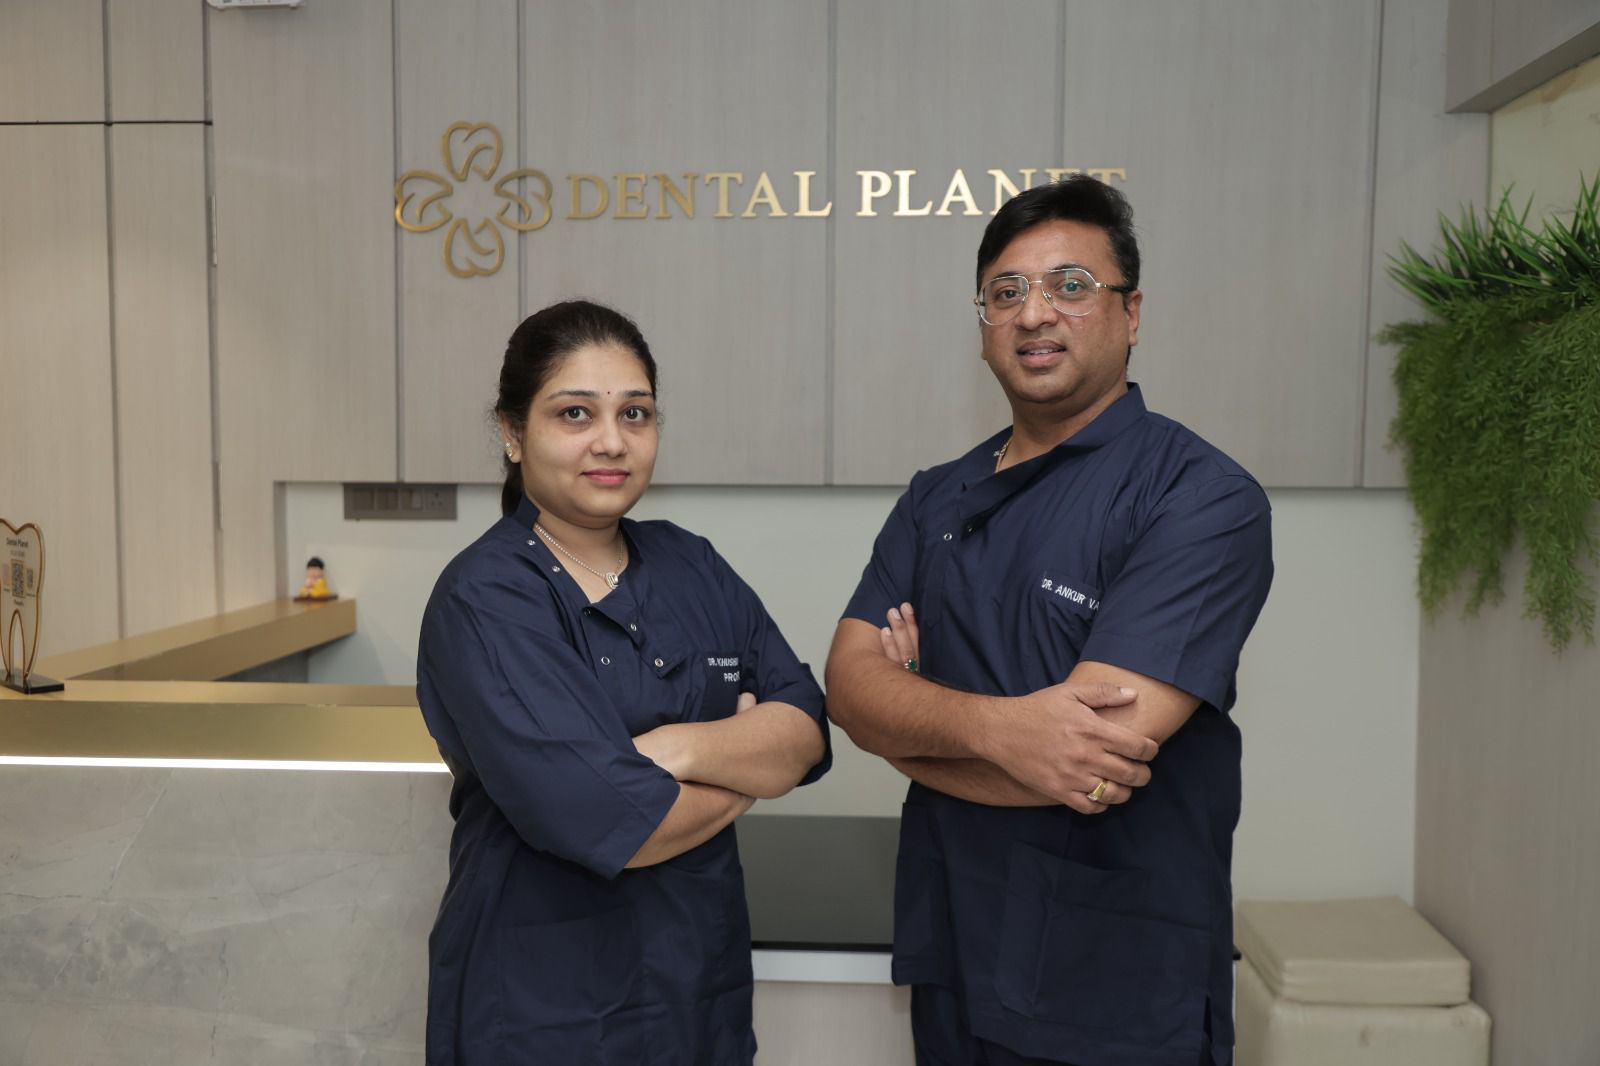
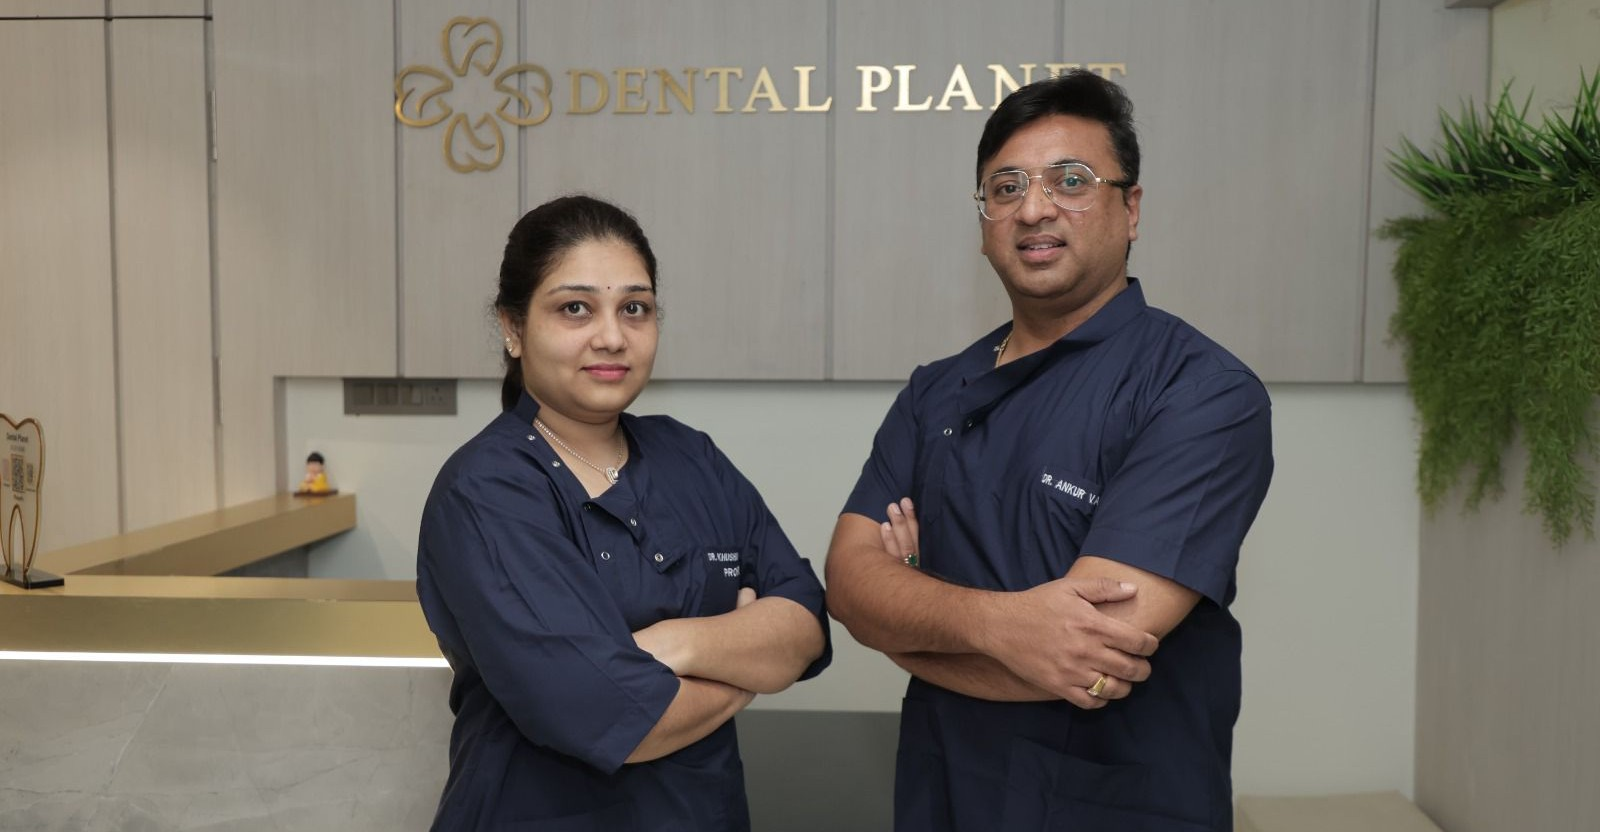
added dr khushboo's information page

diff --git a/app/doctors/dr-khushboo/page.tsx b/app/doctors/dr-khushboo/page.tsx
@@ -1,0 +1,120 @@
+import Image from "next/image";
+import Link from "next/link";
+
+export default function DrKhushbooPage() {
+  return (
+    <div className="container py-5" style={{ maxWidth: 1100 }}>
+      {/* BACK */}
+      <div className="mb-4">
+        <Link
+          href="/"
+          className="btn btn-outline-info rounded-pill px-4 py-2 fw-semibold"
+        >
+          ← Back to Home
+        </Link>
+      </div>
+
+      {/* ================= HERO ================= */}
+      <div className="row g-5 align-items-center mb-5">
+        {/* IMAGE */}
+        <div className="col-12 col-lg-4 text-center">
+          <div className="bg-white rounded-4 shadow p-3">
+            <div className="position-relative" style={{ height: 420 }}>
+              <Image
+                src="/images/khusboo.jpeg"
+                alt="Dr. Khushboo Barjatya Vatsal"
+                fill
+                className="rounded-3"
+                style={{ objectFit: "contain" }}
+              />
+            </div>
+          </div>
+        </div>
+
+        {/* CONTENT */}
+        <div className="col-12 col-lg-8">
+          <h1 className="fw-bold mb-1">Dr. Khushboo Barjatya Vatsal</h1>
+
+          <p className="text-primary fw-semibold fs-5 mb-3">
+            Founder & Pediatric / Child Dental Specialist
+          </p>
+
+          <p className="text-muted lh-lg">
+            Dr. Khushboo Barjatya Vatsal is a compassionate pediatric dentist
+            dedicated to the oral health of infants, children, adolescents, and
+            children with special healthcare needs. She believes in early
+            intervention, preventive care, and gentle behavior management.
+          </p>
+
+          <p className="text-muted lh-lg">
+            Known for her calm approach and child-friendly environment, she
+            focuses on building trust with young patients while educating
+            parents on long-term oral health.
+          </p>
+
+          {/* CTA ROW */}
+          <div className="d-flex flex-column flex-sm-row gap-3 mt-4">
+            <span className="badge bg-warning text-dark rounded-pill px-4 py-2 fs-6 shadow-sm">
+              Pediatric / Child Dental Specialist
+            </span>
+          </div>
+        </div>
+      </div>
+
+      {/* ================= SERVICES ================= */}
+      <section className="bg-light rounded-4 p-4 p-md-5 mb-5">
+        <h3 className="fw-bold text-center mb-4">Pediatric Dental Services</h3>
+
+        <div className="row g-4">
+          {[
+            "Regular Check-Ups & Cleaning",
+            "Infant & Expecting Mother Dental Care",
+            "Cavity Prevention (Fluoride & Sealants)",
+            "Pulp Therapy & Tooth-Colored Crowns",
+            "Early Braces & Orthodontic Care",
+            "Habit Correction Therapy",
+            "Emergency Pediatric Dental Care",
+            "Care for Children with Special Needs",
+            "Sedation Dentistry",
+            "Nitrous Oxide & General Anesthesia",
+          ].map((item, index) => (
+            <div key={index} className="col-md-6">
+              <div className="bg-white rounded-3 shadow-sm p-3 h-100">
+                ✔ {item}
+              </div>
+            </div>
+          ))}
+        </div>
+      </section>
+
+      {/* ================= CLINIC INFO ================= */}
+      <section>
+        <div className="row g-4">
+          <div className="col-md-6">
+            <div className="bg-white shadow rounded-4 p-4 h-100">
+              <h5 className="fw-semibold mb-3">Clinic Timings</h5>
+              <ul className="lh-lg mb-0">
+                <li>Weekdays: 10:00 AM – 2:00 PM</li>
+                <li>Evening: 5:00 PM – 8:30 PM</li>
+                <li>Sunday: Appointment Only (10:00 AM – 12:00 PM)</li>
+              </ul>
+            </div>
+          </div>
+
+          <div className="col-md-6">
+            <div className="bg-white shadow rounded-4 p-4 h-100">
+              <h5 className="fw-semibold mb-3">Clinic Address</h5>
+              <p className="mb-1">
+                17 A Baktawar Ram Nagar,
+                <br />
+                Tilak Nagar, Indore
+              </p>
+              <p className="mb-1">📞 9893523334, 7400630334</p>
+              <p className="mb-0">✉ dentalplanet@gmail.com</p>
+            </div>
+          </div>
+        </div>
+      </section>
+    </div>
+  );
+}

diff --git a/components/DoctorCard.tsx b/components/DoctorCard.tsx
@@ -1,4 +1,5 @@
 import Image from "next/image";
+import Link from "next/link";
 
 export default function DoctorSection({ doctor, reverse = false }: any) {
   return (
@@ -21,7 +22,6 @@ export default function DoctorSection({ doctor, reverse = false }: any) {
                     src={doctor.image}
                     alt={doctor.name}
                     fill
-                    className="img-fluid"
                     style={{ objectFit: "contain" }}
                   />
                 </div>
@@ -45,10 +45,25 @@ export default function DoctorSection({ doctor, reverse = false }: any) {
             </p>
 
             {doctor.isChildSpecialist && (
-              <span className="badge bg-warning text-dark rounded-pill px-4 py-2 fs-6 shadow-sm">
-                Pediatric / Child Dental Specialist
-              </span>
+              <div className="mt-4">
+                <div className="d-flex flex-column flex-sm-row align-items-center align-items-sm-start gap-3 p-3 rounded-4 bg-light border">
+                  {/* SPECIALIST BADGE */}
+                  <span className="badge bg-warning text-dark rounded-pill px-4 py-2 fs-6 shadow-sm">
+                    Pediatric / Child Dental Specialist
+                  </span>
+
+                  {/* CTA BUTTON */}
+                  <Link
+                    href="/doctors/dr-khushboo"
+                    className="btn btn-outline-info rounded-pill px-4 py-2 fw-semibold"
+                  >
+                    Know more about Dr. Khushboo →
+                  </Link>
+                </div>
+              </div>
             )}
+
+            {/* ✅ HARD LINK – ALWAYS WORKS */}
           </div>
         </div>
       </div>

diff --git a/app/page.tsx b/app/page.tsx
@@ -24,18 +24,19 @@ export default function Home() {
   return (
     <main>
       {/* ===== HERO ===== */}
-      <section className="w-100">
+      <section className="w-100 overflow-hidden">
         <img
           src="/images/bg2.jpeg"
           alt="Dental Planet"
-          className="img-fluid w-100"
+          className="w-100 h-100"
           style={{
+            objectFit: "cover",
+            objectPosition: "center bottom", // 👈 crops from TOP
             display: "block",
           }}
         />
       </section>
 
-      {/* ===== ABOUT ===== */}
       {/* ===== ABOUT ===== */}
       <section className="py-5 bg-light">
         <div className="container">

diff --git a/app/gallery/page.tsx b/app/gallery/page.tsx
@@ -13,7 +13,7 @@ export default function GalleryPage() {
         <div className="container">
           {/* HEADER */}
           <div className="text-center mb-5">
-            <h1 className="fw-bold">Clinic Gallery</h1>
+            <h1 className="fw-bold text-info">Clinic Gallery</h1>
             <p className="text-muted">
               Explore our modern infrastructure, equipment & patient-friendly
               spaces

diff --git a/components/Navbar.tsx b/components/Navbar.tsx
@@ -29,7 +29,9 @@ export default function Navbar() {
           aria-label="Toggle navigation"
           onClick={() => setOpen(!open)}
         >
-          <span className="navbar-toggler-icon-custom">{open ? "✖" : "☰"}</span>
+          <span className="navbar-toggler-icon-custom">
+            {open ? "✖" : "☰"}
+          </span>
         </button>
 
         {/* DESKTOP NAV */}
